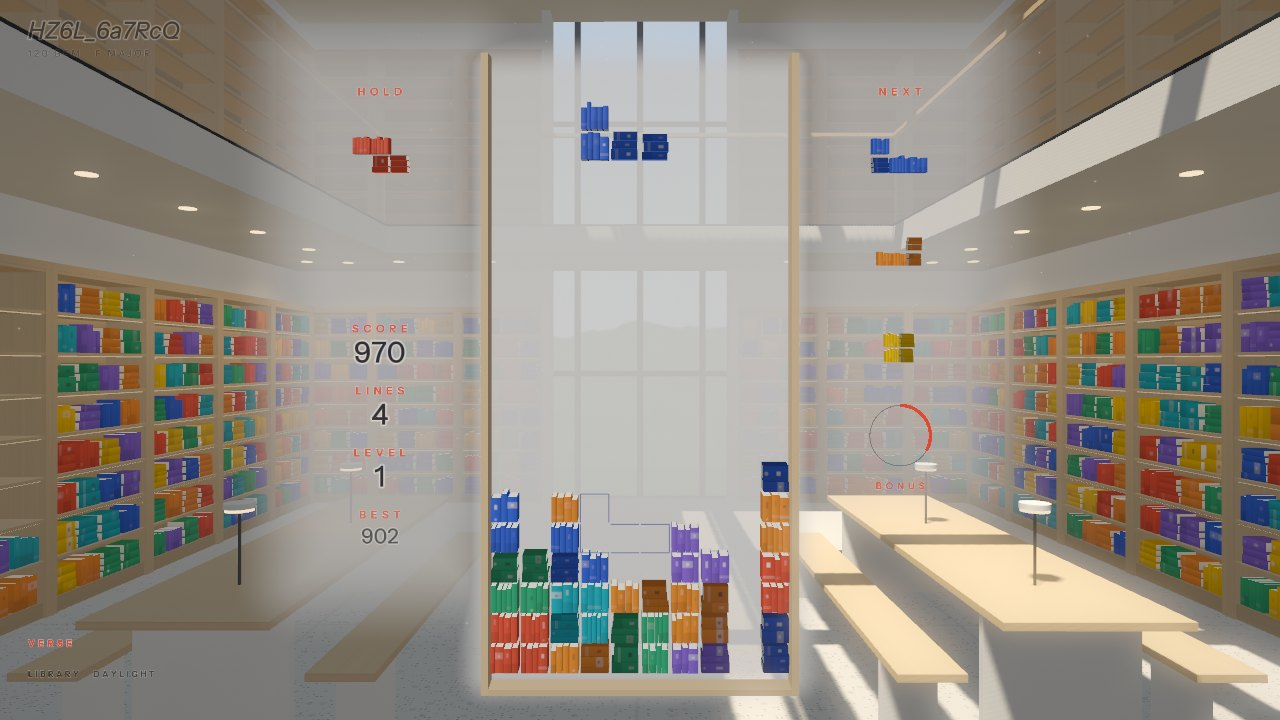
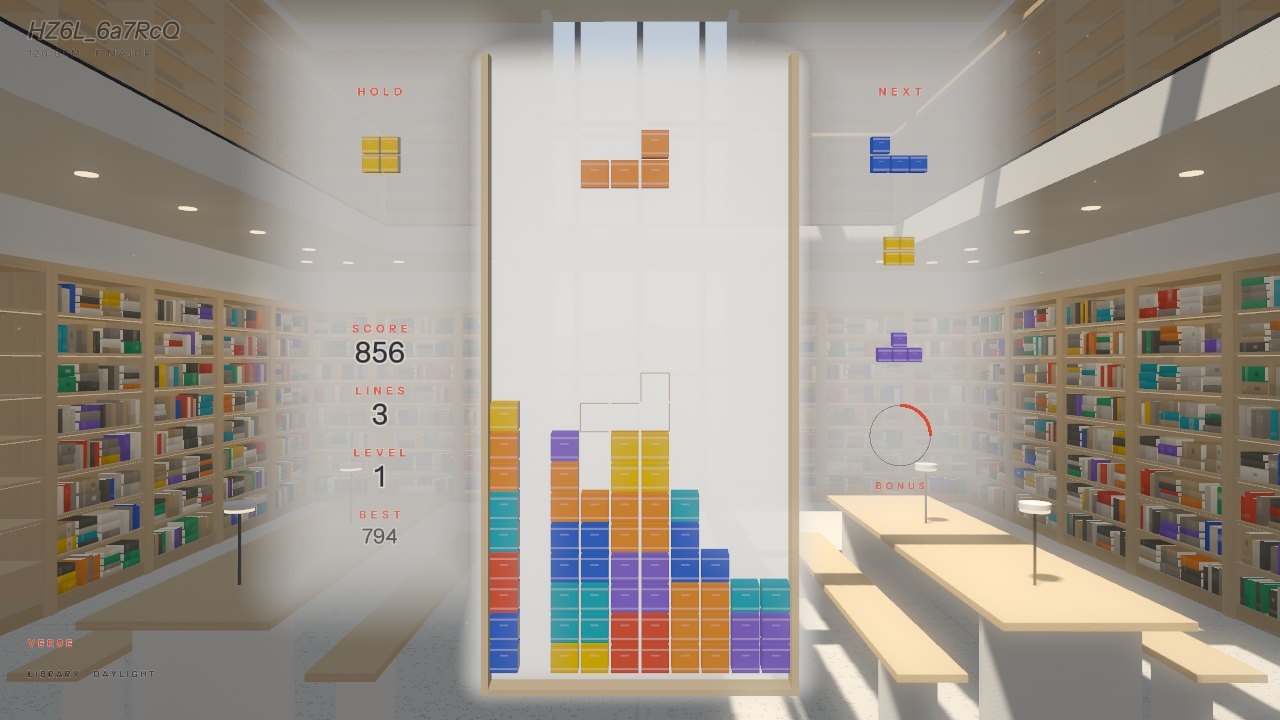
LIBRARY: a clean board again, one block per cell; the cleared books fly to the shelves behind the board; a calm well ground, quieter shelves
- Each cell is one neat block in its piece's flat color, a bound volume with its spine toward us: a soft bevel, two fine rules, a small label, the page edge on one side. Clear gaps between cells. The previews and the ghost match.
- A clear: the row's blocks dissolve in place, then each cleared cell's books fly to their shelf in the background. They leave from behind the cell at a depth behind the well and only ever go deeper, so they never pass in front of the board, the piece or the HUD. They become a little stack of books on the way and land with a soft glow.
- The well's ground is clean and calm: near white by day, deep navy in the evening, nearly opaque. The city lights behind it are dimmer.
- The shelves keep to quiet bindings (paper, stone, taupe, slate, kraft), with the pieces' colors here and there.

Claude-Session: https://claude.ai/code/session_01TRpCVe8qgHvBr5qwovmpX7

Changed region(s): [[0.0, 0.0611, 1.0, 0.9472], [0.6875, 0.3056, 0.7188, 0.3972], [0.2812, 0.7333, 0.3125, 0.7639]]

diff --git a/src/universes/library/library.cpp b/src/universes/library/library.cpp
@@ -1,22 +1,23 @@
-// LIBRARY: the blocks are small stacks of books, and every cleared row is shelved in a contemporary library atrium
-// that fills, bay after bay and floor after floor, with the game.
+// LIBRARY: the blocks are books, and every cleared row is shelved in a contemporary library atrium that fills, bay
+// after bay and floor after floor, with the game.
 //
-// Each cell of a piece is a neat little stack of books in the piece's color (a pile of two to four lying flat, or
-// three to five standing side by side; their thickness, height and shade vary, each spine has its own modern
-// design: a title block, fine rules, two tones, a mark). When a row clears, its stacks swell a little and dissolve
-// into light where they stand (nothing leaves the row, nothing comes toward us), and the same stacks grow, full
-// size, into the next free places on the shelves, one after the other: shelved in the order they come, never
-// moved again, so the collection is the history of the game.
+// The board stays a clean Tetris board: each cell is one neat block in its piece's color, a bound volume with its
+// spine toward us (a soft bevel, two fine rules, a small label, its page edge on one side), over a calm ground. When
+// a row clears, its blocks dissolve into light where they stand, and each cleared cell's books fly to the shelves in
+// the background: from behind the cell's place on the board, at a depth behind the well, only ever going deeper
+// (never in front of the board or the HUD). On the way they become a little stack of real books, which lands in the
+// next free place on the shelves with a soft glow: shelved in the order they come, never moved again, so the
+// collection is the history of the game. The shelves keep to quiet bindings, the pieces' colors here and there.
 //
-// The atrium is all there from the start: shelving walls of pale oak bays on five floors either side of a tall
-// glazed slot behind the well, the upper floors on galleries with glass balustrades, a curtain wall on the left with
-// the trees (or the city at night) outside, oak slats on the right, a skylight over it all. Each floor's light
-// strips and downlights come on as it starts to fill; the camera frames the bays in use and eases back and up as
-// the collection grows, from the first two bays at eye level to the whole atrium.
+// The atrium is all there from the start: pale oak shelving bays on four floors, on the back wall either side of a
+// tall glazed slot behind the well and down both side walls, the upper floors on galleries with glass balustrades
+// round the void, a skylight over it all, reading tables on the ground floor. Each floor's light strips and
+// downlights come on as it starts to fill; the camera frames the bays in use, easing back, then rising floor by
+// floor toward the skylight.
 //
 // The song: dust in the daylight; the lights follow the music; a real drop runs a light along the collection, in
 // the order it came, the strips breathing on the beat; a Tetris runs one light along it. Slow motion: blue hour.
-// Game over: the stacks topple out of the bottom of the well.
+// Game over: the blocks topple out of the bottom of the well.
 //
 // Layout contract: the board is drawn through the reference camera raised a little and shifted back down (the board
 // plane keeps its pixels, the books' tops show); the library has its own camera behind it.
@@ -615,9 +616,11 @@ LibraryUniverse::Stack LibraryUniverse::makeStack(uint32_t seed) {
 // The stack's books as instances: in the cell's frame (origin its center, along / up / out its axes, k its size),
 // grown from its foot by `grow`, swollen by a clear's fade.
 void LibraryUniverse::pushStack(std::vector<Inst>& out, const Stack& s, int type, const vec3& origin, const vec3& along, const vec3& up,
-                                const vec3& outD, float k, float grow, float glow, float fade) {
+                                const vec3& outD, float k, float grow, float glow, float fade, bool calm) {
     if (grow <= 0.001f) return;
     const vec3 base = pieceColor(type);
+    // on the shelves: mostly quiet bindings (paper, stone, taupe, charcoal, kraft), the piece's color here and there
+    static const vec3 NEUTRAL[5] = {lin(0xe9e4d8), lin(0xc4bcae), lin(0x8d857a), lin(0x57544f), lin(0xb39a76)};
     const vec3 foot = origin - up * (0.47f * k);
     const float swell = 1.f + 0.14f * (1.f - (1.f - fade) * (1.f - fade));
     for (int i = 0; i < s.n; i++) {
@@ -629,7 +632,11 @@ void LibraryUniverse::pushStack(std::vector<Inst>& out, const Stack& s, int type
         const vec3 X = b.lying ? up * (b.hy * k * g) : along * (b.hx * k * g);
         const vec3 Y = b.lying ? along * (b.hx * k * g) : up * (b.hy * k * g);
         const vec3 Z = outD * (b.hd * k * g);
-        const vec3 col = base * b.tone;
+        vec3 col = base * b.tone;
+        if (calm) {
+            const uint32_t h = hash32((uint64_t)(b.seed * 100003.f) + (uint64_t)i * 7919ull);
+            col = (h & 255) < 72 ? base * b.tone * 0.92f : NEUTRAL[(h >> 8) % 5] * b.tone;
+        }
         Inst in;
         in.c[0] = c.x; in.c[1] = c.y; in.c[2] = c.z; in.c[3] = (float)M_BOOK;
         in.x[0] = X.x; in.x[1] = X.y; in.x[2] = X.z; in.x[3] = (float)b.style;
@@ -639,6 +646,22 @@ void LibraryUniverse::pushStack(std::vector<Inst>& out, const Stack& s, int type
         in.e[0] = -100.f; in.e[1] = -1.f; in.e[2] = stLevel_; in.e[3] = -10.f;
         out.push_back(in);
     }
+}
+
+void LibraryUniverse::pushCell(std::vector<Inst>& out, int type, const vec3& c, const vec3& along, const vec3& up, float k, float fade,
+                               float seed) {
+    const float sw = 1.f + 0.05f * fade;
+    const vec3 X = along * (0.455f * k * sw), Y = up * (0.455f * k * sw), Z = cross(along, up) * (0.34f * k * sw);
+    const vec3 cc = c - Z;
+    const vec3 col = pieceColor(type);
+    Inst in;
+    in.c[0] = cc.x; in.c[1] = cc.y; in.c[2] = cc.z; in.c[3] = (float)M_CELL;
+    in.x[0] = X.x; in.x[1] = X.y; in.x[2] = X.z; in.x[3] = 0.f;
+    in.y[0] = Y.x; in.y[1] = Y.y; in.y[2] = Y.z; in.y[3] = 0.f;
+    in.z[0] = Z.x; in.z[1] = Z.y; in.z[2] = Z.z; in.z[3] = fade;
+    in.col[0] = col.x; in.col[1] = col.y; in.col[2] = col.z; in.col[3] = seed;
+    in.e[0] = -100.f; in.e[1] = -1.f; in.e[2] = -1.f; in.e[3] = -10.f;
+    out.push_back(in);
 }
 
 uint32_t LibraryUniverse::cellSeed(int x, int y, int type) {
@@ -670,6 +693,17 @@ void LibraryUniverse::slotFrame(int slot, vec3& origin, vec3& along, vec3& out) 
     out = b.out;
 }
 
+void LibraryUniverse::fly(int type, uint32_t seed, const vec3& board, float delay) {
+    if (nextSlot_ >= SLOTS_ALL) return;
+    shelve(type, seed, 0.f);
+    groups_.back().t0 = 1e9f; // (not on its shelf until it lands)
+    Flight fl;
+    fl.group = (int)groups_.size() - 1;
+    fl.board = board;
+    fl.t = -delay;
+    flights_.push_back(fl);
+}
+
 void LibraryUniverse::shelve(int type, uint32_t seed, float delay) {
     if (nextSlot_ >= SLOTS_ALL) return;
     Group g;
@@ -682,6 +716,7 @@ void LibraryUniverse::shelve(int type, uint32_t seed, float delay) {
 
 void LibraryUniverse::resetGrowth() {
     groups_.clear();
+    flights_.clear();
     nextSlot_ = 0;
     shelfInst_.clear();
     settled_ = 0;
@@ -721,8 +756,9 @@ void LibraryUniverse::onEvent(const GameEvent& ev, const Game& game) {
             const int type = std::clamp(c.type, 0, 6);
             const uint32_t sd = cellSeed(c.x, c.y, type);
             full[c.y] = true;
-            if (c.y >= Game::HIDDEN) fx_.push_back({type, sd, layout::cellPos((float)c.x, (float)c.y), -0.007f * c.x});
-            shelve(type, sd, 0.12f + 0.06f * i);
+            const vec3 bp = layout::cellPos((float)c.x, (float)c.y);
+            if (c.y >= Game::HIDDEN) fx_.push_back({type, sd, bp, 0.f});
+            fly(type, sd, bp, 0.05f + 0.06f * i);
             i++;
         }
         // the seeds follow the rows down
@@ -775,7 +811,7 @@ void LibraryUniverse::buildBoard(const Game& g) {
             const Cell& c = g.cell(x, y);
             if (c.type < 0) continue;
             const vec3 p = layout::cellPos((float)x, y - g.rowOffset(y));
-            pushStack(cells_, makeStack(cellSeed(x, y, c.type)), c.type, p, X, UP, Z, 1.f, 1.f, 0.f, 0.f);
+            pushCell(cells_, c.type, p, X, UP, 1.f, 0.f, (float)(cellSeed(x, y, c.type) & 1023) / 97.f);
         }
     if (g.hasPiece() && !g.over()) {
         const Piece& p = g.piece();
@@ -783,8 +819,8 @@ void LibraryUniverse::buildBoard(const Game& g) {
         g.pieceCells(p, cells);
         const float dx = g.pieceVisualX() - p.x, dy = g.pieceVisualY() - p.y;
         for (int i = 0; i < 4; i++)
-            pushStack(cells_, makeStack(hash32(((uint64_t)spawnN_ << 3) + (uint64_t)i)), p.type, layout::cellPos(cells[i][0] + dx, cells[i][1] + dy),
-                      X, UP, Z, 1.f, 1.f, 0.f, 0.f);
+            pushCell(cells_, p.type, layout::cellPos(cells[i][0] + dx, cells[i][1] + dy), X, UP, 1.f, 0.f,
+                     (float)(hash32(((uint64_t)spawnN_ << 3) + (uint64_t)i) & 1023) / 97.f);
         // the ghost: a fine outline where it lands
         Piece gp = p;
         gp.y = g.ghostY();
@@ -824,8 +860,7 @@ void LibraryUniverse::buildBoard(const Game& g) {
         }
         for (int i = 0; i < 4; i++) {
             const float ox = cells[i][0] - (minx + maxx) * 0.5f, oy = cells[i][1] - (miny + maxy) * 0.5f;
-            pushStack(cells_, makeStack(hash32(0xBEEF00ull + (uint64_t)(type * 8 + i))), type, vec3(center.x + ox * sc, center.y - oy * sc, 0.f), X,
-                      UP, Z, sc, 1.f, 0.f, 0.f);
+            pushCell(cells_, type, vec3(center.x + ox * sc, center.y - oy * sc, 0.f), X, UP, sc, 0.f, 1.3f * i + type);
         }
     };
     if (!g.over()) {
@@ -1160,7 +1195,8 @@ void LibraryUniverse::render(const Frame& f, GLuint fbo) {
         }
         while (hookLines_ < hookRate) {
             hookLines_++;
-            for (int x = 0; x < Game::W; x++) shelve(rng_.irange(0, 6), (uint32_t)rng_.next(), 0.1f + 0.06f * x);
+            for (int x = 0; x < Game::W; x++)
+                fly(rng_.irange(0, 6), (uint32_t)rng_.next(), layout::cellPos((float)x, (float)(Game::H - 1)), 0.05f + 0.06f * x);
         }
         grow_ = (float)lines_;
     }
@@ -1194,7 +1230,7 @@ void LibraryUniverse::render(const Frame& f, GLuint fbo) {
         slotFrame(g.slot, o, al, ou);
         stLevel_ = (float)(g.slot / SLOTS_LEVEL);
         const size_t first = out.size();
-        pushStack(out, makeStack(g.seed), g.type, o, al, UP, ou, BOOK_K, grow, glow, 0.f);
+        pushStack(out, makeStack(g.seed), g.type, o, al, UP, ou, BOOK_K, grow, glow, 0.f, true);
         // its place in the collection (the drop's and the Tetris' light run along it)
         for (size_t j = first; j < out.size(); j++) out[j].e[3] = (float)i;
     };
@@ -1214,9 +1250,51 @@ void LibraryUniverse::render(const Frame& f, GLuint fbo) {
         const float a = worldTime_ - groups_[i].t0;
         if (a < 0.f) continue;
         // growing onto its shelf from its foot, a soft light fading as it settles
-        pushGroup(dyn_[MESH_BOX], i, a > 0.6f ? 1.f : easeOutBack(a / 0.5f), 0.55f * std::exp(-a * 1.6f));
+        pushGroup(dyn_[MESH_BOX], i, a > 0.6f ? 1.f : easeOutBack(a / 0.5f), 0.6f * std::exp(-std::max(0.f, a - 0.6f) * 1.4f));
     }
     stLevel_ = 0.f;
+
+    // ---- Flights: a cleared cell's books, from behind its place in the well to their shelf, only ever going deeper
+    for (auto it = flights_.begin(); it != flights_.end();) {
+        Flight& fl = *it;
+        fl.t += wdt;
+        if (fl.group < 0 || fl.group >= (int)groups_.size()) { it = flights_.erase(it); continue; }
+        Group& g = groups_[fl.group];
+        if (fl.t < 0.f) { ++it; continue; }
+        vec3 oT, alT, ouT;
+        slotFrame(g.slot, oT, alT, ouT);
+        if (!fl.launched) {
+            fl.launched = true;
+            // the cell's pixel and size through the board's camera, the world ray through it
+            const vec4 c0 = vpB_ * vec4(fl.board, 1.f), c1 = vpB_ * vec4(fl.board + vec3(0.f, 0.5f, 0.f), 1.f);
+            const vec2 ndc{c0.x / c0.w, c0.y / c0.w};
+            const float halfNdc = std::fabs(c1.y / c1.w - ndc.y);
+            const vec3 dir = normalize(fwdW_ + rightW_ * (ndc.x * tanW_ * aspect_) + upW_ * (ndc.y * tanW_));
+            const float dT = std::max(1.f, dot(oT - eyeW_, fwdW_));
+            const float d0 = std::clamp(dT * 0.8f, std::min(2.f, dT), dT);
+            fl.p0 = eyeW_ + dir * (d0 / std::max(0.2f, dot(dir, fwdW_)));
+            fl.k0 = 2.f * halfNdc * d0 * tanW_;
+            fl.out0 = normalize(vec3(-fwdW_.x, 0.f, -fwdW_.z));
+            fl.dur = 0.95f + 0.22f * std::log2(1.f + length(oT - fl.p0) / 2.f);
+        }
+        const float s = saturate(fl.t / fl.dur);
+        if (s >= 1.f) {
+            g.t0 = worldTime_ - 0.6f; // on its shelf, full size, its light fading from now
+            it = flights_.erase(it);
+            continue;
+        }
+        if (!f.bare) {
+            const float e = s * s * (3.f - 2.f * s);
+            const float L = length(oT - fl.p0);
+            const vec3 p = lerp(fl.p0, oT, e) + UP * (0.12f * L * std::sin(PI * e));
+            const vec3 ou = normalize(lerp(fl.out0, ouT, smoothstepf(0.f, 0.8f, s)));
+            const vec3 al = normalize(cross(UP, ou));
+            stLevel_ = (float)(g.slot / SLOTS_LEVEL);
+            pushStack(dyn_[MESH_BOX], makeStack(g.seed), g.type, p, al, UP, ou, lerpf(fl.k0, BOOK_K, e), 1.f, 0.25f, 0.f, true);
+            stLevel_ = 0.f;
+        }
+        ++it;
+    }
 
     // ---- A cleared row: its stacks swell and dissolve into light where they stand.
     for (auto it = fx_.begin(); it != fx_.end();) {
@@ -1224,9 +1302,9 @@ void LibraryUniverse::render(const Frame& f, GLuint fbo) {
         if (it->t > FX_T) { it = fx_.erase(it); continue; }
         if (!f.bare && it->t > 0.f) {
             const float s = saturate(it->t / FX_T);
-            pushStack(fxInst_, makeStack(it->seed), it->type, it->p, vec3(1, 0, 0), UP, vec3(0, 0, 1), 1.f, 1.f, 0.f, std::max(0.02f, s));
+            pushCell(fxInst_, it->type, it->p, vec3(1, 0, 0), UP, 1.f, std::max(0.02f, s), 0.f);
         } else if (!f.bare) {
-            pushStack(cells_, makeStack(it->seed), it->type, it->p, vec3(1, 0, 0), UP, vec3(0, 0, 1), 1.f, 1.f, 0.f, 0.f);
+            pushCell(cells_, it->type, it->p, vec3(1, 0, 0), UP, 1.f, 0.f, 0.f);
         }
         ++it;
     }
@@ -1241,7 +1319,7 @@ void LibraryUniverse::render(const Frame& f, GLuint fbo) {
             const vec3 p = t.p + vec3(t.v.x * tt, t.v.y * tt - 7.f * tt * tt, t.v.z * tt);
             const float r = t.rotV * tt;
             const vec3 al(std::cos(r), std::sin(r), 0.f), up(-std::sin(r), std::cos(r), 0.f);
-            pushStack(cells_, makeStack(t.seed), t.type, p, al, up, vec3(0, 0, 1), 1.f, 1.f, 0.f, 0.f);
+            pushCell(cells_, t.type, p, al, up, 1.f, 0.f, 0.f);
         }
         ++it;
     }
@@ -1451,8 +1529,9 @@ void LibraryUniverse::render(const Frame& f, GLuint fbo) {
     if (!f.bare) {
         glUseProgram(progVeil_);
         set4f(progVeil_, "uView", viewC_.x, viewC_.y, viewH_.x, viewH_.y);
-        set3f(progVeil_, "uVeil", P.veil);
-        set1f(progVeil_, "uWellA", P.light ? 0.8f : 0.78f);
+        // the well's ground: clean and calm (the light variants' a near white after the tone curve)
+        set3f(progVeil_, "uVeil", P.veil * (P.light ? 1.45f : 1.f));
+        set1f(progVeil_, "uWellA", P.light ? 0.94f : 0.96f);
         set1f(progVeil_, "uColA", P.light ? 0.5f : 0.62f);
         set4f(progVeil_, "uColL", layout::LEFT_COLUMN[0], layout::LEFT_COLUMN[1], layout::LEFT_COLUMN[2], layout::LEFT_COLUMN[3]);
         set4f(progVeil_, "uColR", layout::RIGHT_COLUMN[0], layout::RIGHT_COLUMN[1], layout::RIGHT_COLUMN[2], layout::RIGHT_COLUMN[3]);

diff --git a/src/universes/library/shaders.hpp b/src/universes/library/shaders.hpp
@@ -159,7 +159,7 @@ vec3 outside(float x, float y) {
     vec3 city = uOutside * (0.8 + 0.2 * hash12(vec2(blk, 2.0)));
     vec2 w = vec2(x / 0.45, y / 0.6);
     float lit = step(0.8, hash12(floor(w) + blk * 3.0)) * step(0.3, fract(w.x)) * step(0.35, fract(w.y));
-    city += vec3(1.0, 0.78, 0.5) * lit * 0.45 * (1.0 - smoothstep(0.3, 1.0, fwidth(w.x)));
+    city += vec3(1.0, 0.78, 0.5) * lit * 0.22 * (1.0 - smoothstep(0.3, 1.0, fwidth(w.x)));
     vec3 c = mix(sky, mix(trees, city, uNight), m);
     // the lawn (the street at night) in front
     vec3 lawn = mix(uOutside * 1.15, uOutside * 0.6, uNight);
@@ -302,6 +302,38 @@ void main() {
             float f = vMat.w;
             // its own color, lit from within, then gone
             emit += (vCol.rgb * 1.4 + 0.25) * (2.2 * f);
+            outA = (1.0 - f) * (1.0 - f * 0.5);
+        }
+    } else if (mat == 12) {
+        // a cell of the board: one clean block, a bound volume with its spine toward us: a soft bevel, two fine
+        // rules at head and tail, a small label; the page edge on its right side; p2: a clear's fade into light
+        if (face == 2 && vLN.z > 0.0) {
+            vec2 e = sz - abs(q);
+            float ed = min(e.x, e.y);
+            float rim = 1.0 - smoothstep(0.0, 0.03 + px, ed);
+            alb *= 1.0 - 0.18 * rim;
+            float pr = px + 0.004;
+            float rule = (1.0 - smoothstep(0.012, 0.012 + pr, abs(q.y - sz.y * 0.7))) + (1.0 - smoothstep(0.012, 0.012 + pr, abs(q.y + sz.y * 0.7)));
+            vec3 lite = mix(alb, vec3(1.0), 0.3);
+            alb = mix(alb, lite, clamp(rule, 0.0, 1.0) * 0.75);
+            vec2 lq = vec2(q.x, q.y - sz.y * 0.28);
+            vec2 ld = vec2(sz.x * 0.34, sz.y * 0.1) - abs(lq);
+            float lab = smoothstep(0.0, pr, min(ld.x, ld.y));
+            alb = mix(alb, lite, lab * 0.55);
+            spec = 0.1; rough = 22.0;
+        } else if (face == 0 && vLN.x > 0.0) {
+            float lines = 0.5 + 0.5 * sin(q.y * 900.0);
+            lines = mix(lines, 0.5, smoothstep(1.0, 3.0, fwidth(q.y * 900.0)));
+            float covers = 1.0 - smoothstep(0.02, 0.03, sz.y - abs(q.y));
+            alb = mix(uPaper * (0.86 + 0.1 * lines), alb * 0.85, covers);
+            spec = 0.04;
+        } else {
+            alb *= 0.86;
+            spec = 0.06;
+        }
+        if (vMat.w > 0.0) {
+            float f = vMat.w;
+            emit += (vCol.rgb * 1.3 + 0.25) * (2.0 * f);
             outA = (1.0 - f) * (1.0 - f * 0.5);
         }
     } else if (mat == 4) {

diff --git a/src/universes/library/library.hpp b/src/universes/library/library.hpp
@@ -1,6 +1,6 @@
 #pragma once
-// LIBRARY: the blocks are small stacks of books; every cleared row's stacks are shelved, grown to full size, on the
-// shelving walls of a contemporary library atrium that fills floor by floor, in 3D (see library.cpp).
+// LIBRARY: the blocks are books; every cleared row's books fly, behind the board, to the shelves of a contemporary
+// library atrium that fills floor by floor, in 3D (see library.cpp).
 #include <cstdint>
 #include <string>
 #include <vector>
@@ -35,7 +35,7 @@ public:
     enum Mesh { MESH_BOX = 0, MESH_CYL = 1, MESH_DOME = 2, MESH_COUNT = 3 };
     enum Mat {
         M_PLASTER = 0, M_WOOD = 1, M_CASE = 2, M_BOOK = 3, M_FLOOR = 4, M_CONCRETE = 5, M_STEEL = 6, M_EMIT = 7, M_WINDOW = 8,
-        M_GLASS = 9, M_SKY = 10, M_FELT = 11
+        M_GLASS = 9, M_SKY = 10, M_FELT = 11, M_CELL = 12
     };
     struct Lamp {
         vec3 p, col;
@@ -83,7 +83,9 @@ private:
     uint32_t spawnN_ = 1;
     uint32_t cellSeed(int x, int y, int type);
     void pushStack(std::vector<Inst>& out, const Stack& s, int type, const vec3& origin, const vec3& along, const vec3& up, const vec3& out_,
-                   float k, float grow, float glow, float fade);
+                   float k, float grow, float glow, float fade, bool calm = false);
+    // a cell of the board: one clean block, a bound volume (spine toward us)
+    void pushCell(std::vector<Inst>& out, int type, const vec3& c, const vec3& along, const vec3& up, float k, float fade, float seed);
 
     // ---- The collection: every cleared cell's stack, shelved in the order they came.
     struct Group {
@@ -100,6 +102,18 @@ private:
     bool shelfDirty_ = true;
     GLuint shelfVao_ = 0, shelfVbo_ = 0;
     void shelve(int type, uint32_t seed, float delay);
+    // a cleared cell's books flying to their shelf, behind the well: launched from the cell's place on screen at a
+    // depth behind the board, only ever going deeper
+    struct Flight {
+        int group = -1;
+        vec3 board;            // the cell (board space)
+        float t = 0.f, dur = 1.f;
+        bool launched = false;
+        vec3 p0, out0;
+        float k0 = 0.f;
+    };
+    std::vector<Flight> flights_;
+    void fly(int type, uint32_t seed, const vec3& board, float delay);
     void slotFrame(int slot, vec3& origin, vec3& along, vec3& out) const;
     int hookLines_ = 0;
     bool hookPlaced_ = false;

diff --git a/docs/universes.md b/docs/universes.md
@@ -413,13 +413,13 @@ The pieces are panels of colored light: satin color lit from the top left, a lin
 
 ![LIBRARY](universes/library.jpg)
 
-The blocks are little stacks of books, and every cleared row is shelved in a contemporary library atrium that fills with the game, bay after bay and floor after floor, in 3D (code in `src/universes/library/`). Each cell of a piece is a neat stack in the piece's color: two to four books lying flat (the longest at the bottom) or three to five standing side by side, each with its own thickness, height and shade, spine toward us, with a quiet modern design in tones of its own color (a lighter title block, fine rules, two tones, a short dark title and a mark), pages showing at the head and the fore-edge. A cell keeps its stack from the moment its piece spawns until it is cleared (the stacks follow the rows down). The board's camera is raised a little and shifted back down so the board keeps its pixels and the books' tops show. The well is a slim frame of pale oak in front of a frosted panel; the ghost is a fine outline.
+The blocks are books, and every cleared row is shelved in a contemporary library atrium that fills with the game, bay after bay and floor after floor, in 3D (code in `src/universes/library/`). The board stays a clean Tetris board: each cell is one neat block in its piece's flat color, separated from its neighbors by a clear gap. The block is a bound volume with its spine toward us: a soft bevel, two fine rules at its head and tail and a small label, its page edge on one side. The board's camera is raised a little and shifted back down, so the board keeps its pixels and the blocks' tops show. The well is a slim frame of pale oak over a calm ground (near white by day, deep navy in the evening); the ghost is a fine outline.
 
-**A clear**: the row's stacks swell a little and dissolve into their own light where they stand, in about a quarter of a second, before the stack above comes down. Nothing leaves the row and nothing comes toward the camera, so the board is never covered. The same stacks then grow, full size, into the next free places on the shelves behind, one after the other, each with a soft glow that fades as it settles. **Every book on the shelves is a cleared cell**: the shelves start empty, and N lines put 10 N stacks away. Stacks are shelved in the order they come, four to a shelf, from the bottom shelf up. A shelved stack never moves again, so the collection is the history of the game.
+**A clear**: the row's blocks dissolve into their own light in about a quarter of a second, where they stand, before the stack above comes down. Each cleared cell's books then fly to the shelves in the background. They leave from behind the cell's place on the board, at a depth behind the well, and only ever go deeper: behind the well's ground and the HUD's columns, never in front of the board, the falling piece or the HUD. On the way they become a little stack of real books (two to four lying flat or three to five standing). Each stack lands in the next free place on the shelves with a soft glow that fades as it settles. **Every book on the shelves is a cleared cell**: the shelves start empty, and N lines put 10 N stacks away. Stacks are shelved in the order they come, four to a shelf, from the bottom shelf up. A shelved stack never moves again, so the collection is the history of the game. The shelves keep to quiet bindings (paper, stone, taupe, slate, kraft), with the cleared pieces' colors here and there, so the room stays subordinate to the board.
 
 **The atrium**: a hall open toward us, all there from the start. Shelving bays of pale oak (each shelf with a light strip under its front edge washing the bay's back) stand on its back wall either side of a tall glazed slot behind the well (the trees of a park outside, the city at night), and down both side walls. There are four floors. The upper ones are galleries round three sides of the void, white slabs with glass balustrades and oak rails. Above it all is a skylight whose beams cast a grid of sunlight down the void onto the terrazzo. Two long oak reading tables with benches and slim lamps stand on the ground floor. The bays fill in order: the back wall's first (nearest the slot, outward), then down the side walls from the back toward us, then the next floor up. Each floor's strips and downlights come on as it starts to fill. The camera frames the bays in use. At the start it is at eye level, close on the first two bays. It eases back as the back wall fills and back again to follow the side walls, then rises floor by floor through the void, framing the floor being filled and the one under it, up to the skylight (some 230 lines fill all four floors).
 
-The song: dust drifts in the daylight; the strips and downlights follow the music (a little brighter at a peak, lifted by the kicks). **The drop** (a real one only, not a chorus: the HUD's section, else the music's pace) runs a soft light slowly along the collection, in the order it came, breathing on the beat; a Tetris runs one light along it. Slow motion is blue hour (the sun and the sky cooled and lowered). Game over topples the stacks out of the bottom of the well, away from us. It leaves and enters through the bridge.
+The song: dust drifts in the daylight; the strips and downlights follow the music (a little brighter at a peak, lifted by the kicks). **The drop** (a real one only, not a chorus: the HUD's section, else the music's pace) runs a soft light slowly along the collection, in the order it came, breathing on the beat; a Tetris runs one light along it. Slow motion is blue hour (the sun and the sky cooled and lowered). Game over topples the blocks out of the bottom of the well, away from us. It leaves and enters through the bridge.
 
 The atrium is instanced boxes, cylinders and hemispheres with their materials: pale oak with a fine straight grain, the bays' strip-lit back panels, white concrete, terrazzo, polished concrete or oak planks, the glazing with its view, glass drawn last and blended, the skylight and the books. It is lit by the sky, the sun with a 2048 shadow map (the skylight's glazing lets it through, its beams do not), the 16 downlights that matter most, and on the shelves the strips' own light. It uses 4x multisampling and a quarter-resolution bloom. Settled stacks are kept in their own buffer, so a full atrium (about 11,000 books) costs about 0.5 ms a frame at 1280x720 on an RTX 4090 (`ZEN_LIBRARY_TIMING=1` prints it).
 
@@ -435,7 +435,7 @@ The variant is picked from the mode, brightness, air and dynamics (`--universe "
 Test hooks:
 
 - `ZEN_LIBRARY_LINES=N` adds N lines to the collection, with their 10 N stacks (of random colors) already on the shelves, to look at a long game in a screenshot.
-- `ZEN_GROW_RATE=R` adds R lines a second, each shelved like a real line (ten stacks growing onto the shelves), for a time-lapse.
+- `ZEN_GROW_RATE=R` adds R lines a second, each shelved like a real line (ten stacks flying to the shelves from the bottom row), for a time-lapse.
 - `ZEN_TEST_TETRIS=1` (in the game's autoplay, for any universe) keeps the right column free and waits for an I, so a clip shows real Tetrises.
 
 ## SKY WHALE

diff --git a/README.md b/README.md
@@ -107,7 +107,7 @@ song, and between songs the game takes a short break into the next universe. For
 </tr>
 <tr>
 <td><img src="docs/universes/orbital.jpg"><br><b>ORBITAL STATION</b>: a space station building itself in orbit and growing absurdly, a stage an order of magnitude bigger: from a lone capsule to a habitat wheel, a forest ring, nested rings, shipyards, a space elevator, a ring round the planet, more rings and elevators, an O'Neill fleet, the Moon taken in hand, and two rings dwarfing the planet; tugs and traffic never stop; the drop spins the rings up and chases light round them on the beat<br><sub>🔍 <i>to review</i></sub></td>
-<td><img src="docs/universes/library.jpg"><br><b>LIBRARY</b>: the blocks are little stacks of books; a cleared row dissolves in place and its stacks grow onto the shelves of a light, modern library atrium (pale oak, white galleries, a skylight) that fills bay by bay and floor by floor, the camera rising with it toward the skylight; the drop runs a soft light along the collection<br><sub>🔍 <i>to review</i></sub></td>
+<td><img src="docs/universes/library.jpg"><br><b>LIBRARY</b>: the blocks are clean book-bound cells; each cleared row's books fly, behind the board, to the shelves of a light, modern library atrium (pale oak, white galleries, a skylight) that fills bay by bay and floor by floor, the camera rising with it toward the skylight; the drop runs a soft light along the collection<br><sub>🔍 <i>to review</i></sub></td>
 </tr>
 <tr>
 <td><img src="docs/universes/skywhale.jpg"><br><b>SKY WHALE</b>: a little koi in a lily pond at dusk, growing with every cleared line, a slow stroke of its tail each time: it slips down the river to the sea, breaches as a whale by a lighthouse, swims up through the clouds with seabirds and balloons in its wake, glides around the Earth trailing aurora from its fins and circles the Moon; on the drop it sings, soft rings of light rippling out through the sky<br><sub>🔍 <i>to review</i></sub></td>
